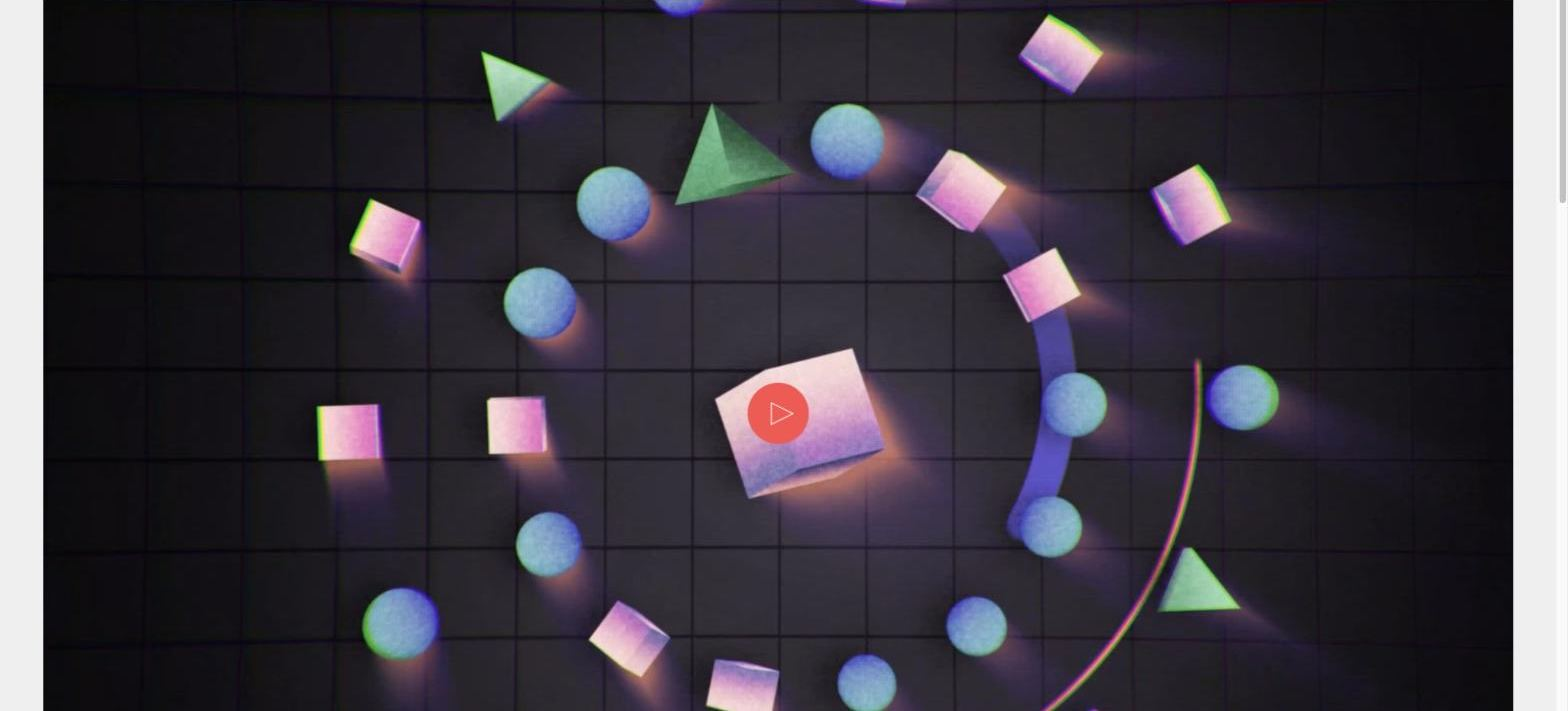
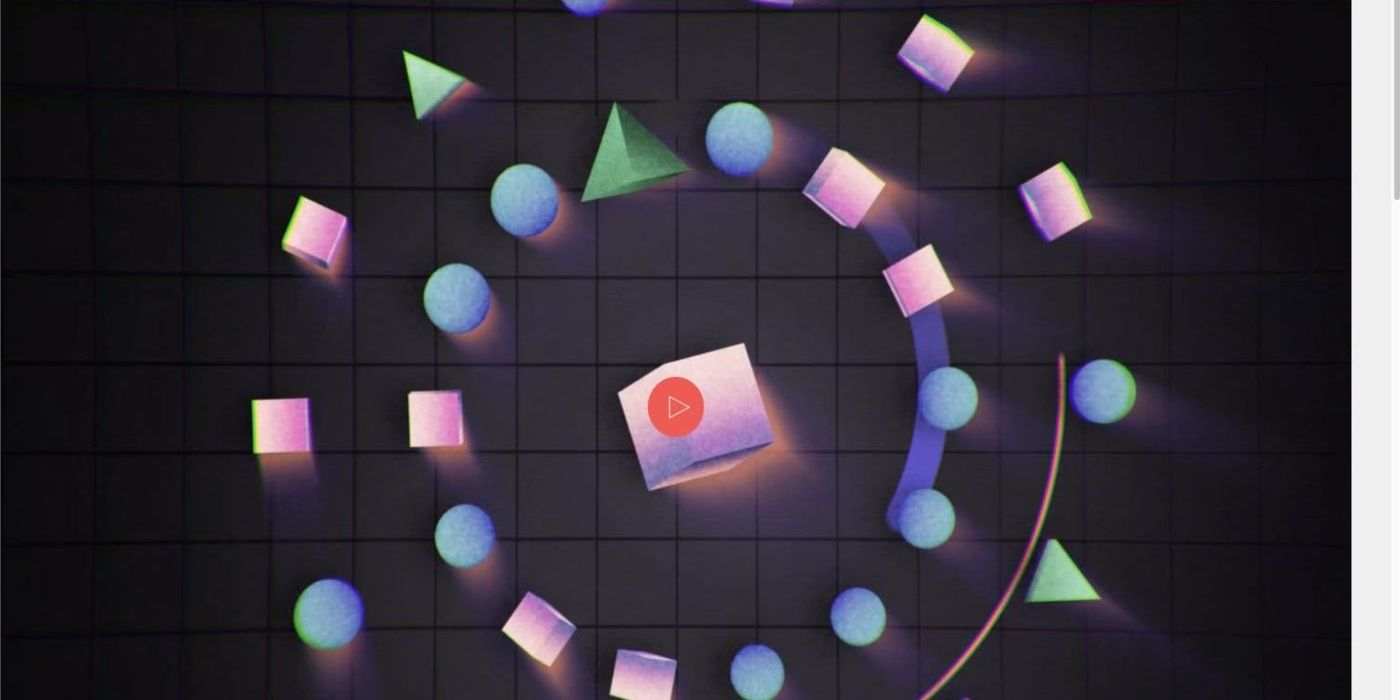
sokosumi: trim source-site gutters and normalise captures to 2:1
Claude-Session: https://claude.ai/code/session_01HdxhSrrd2kNQfNVfMV6UXs

diff --git a/apps/sokosumi/templates/serviceplanAi.js b/apps/sokosumi/templates/serviceplanAi.js
@@ -229,7 +229,7 @@ function groupedChapters(list) {
               <div>
                 <h3 id="sp-group-${attr(group.id)}"><span class="sp-group-index">${String(groupIndex + 1).padStart(2, "0")}</span>${esc(localText(group.label))}</h3>
                 <p>${esc(localText(group.description))}</p>
-                ${group.img ? `<img class="sp-group-img" src="${attr(group.img)}" alt="" width="1568" height="711" loading="lazy" decoding="async">` : ""}
+                ${group.img ? `<img class="sp-group-img" src="${attr(group.img)}" alt="" width="1400" height="700" loading="lazy" decoding="async">` : ""}
               </div>
             </header>
             <div class="sp-chapter-list">
@@ -338,7 +338,7 @@ function sourceFigure(source, opts = {}) {
     domain = new URL(source.href).hostname.replace(/^www\./, "");
   } catch {}
   return `<figure class="sp-source${opts.hero ? " sp-source-hero" : ""}">
-    <a href="${attr(source.href || "#")}" rel="noopener noreferrer nofollow"><img src="${attr(source.img)}" alt="${attr(localText(source.caption))}" width="1568" height="711" loading="${opts.hero ? "eager" : "lazy"}" decoding="async"${opts.hero ? ' fetchpriority="high"' : ""}></a>
+    <a href="${attr(source.href || "#")}" rel="noopener noreferrer nofollow"><img src="${attr(source.img)}" alt="${attr(localText(source.caption))}" width="1400" height="700" loading="${opts.hero ? "eager" : "lazy"}" decoding="async"${opts.hero ? ' fetchpriority="high"' : ""}></a>
     <figcaption><span>${esc(localText(source.caption))}</span>${domain ? `<a href="${attr(source.href)}" rel="noopener noreferrer nofollow">${esc(domain)} ${icon("arrow-up-right", 12)}</a>` : ""}</figcaption>
   </figure>`;
 }

diff --git a/apps/sokosumi/assets/serviceplan-ai.css b/apps/sokosumi/assets/serviceplan-ai.css
@@ -2077,7 +2077,7 @@ a.sp-pn:hover strong {
 }
 
 .sp-source img {
-  aspect-ratio: 1568 / 711;
+  aspect-ratio: 2 / 1;
   background: var(--sp-soft);
   border: 1px solid var(--sp-rule);
   border-radius: var(--r-xl, 14px);
@@ -2261,7 +2261,7 @@ a.sp-pn:hover strong {
 }
 
 .sp-group-img {
-  aspect-ratio: 1568 / 711;
+  aspect-ratio: 2 / 1;
   border: 1px solid var(--sp-rule);
   border-radius: var(--r-lg);
   margin-top: var(--space-lg);
